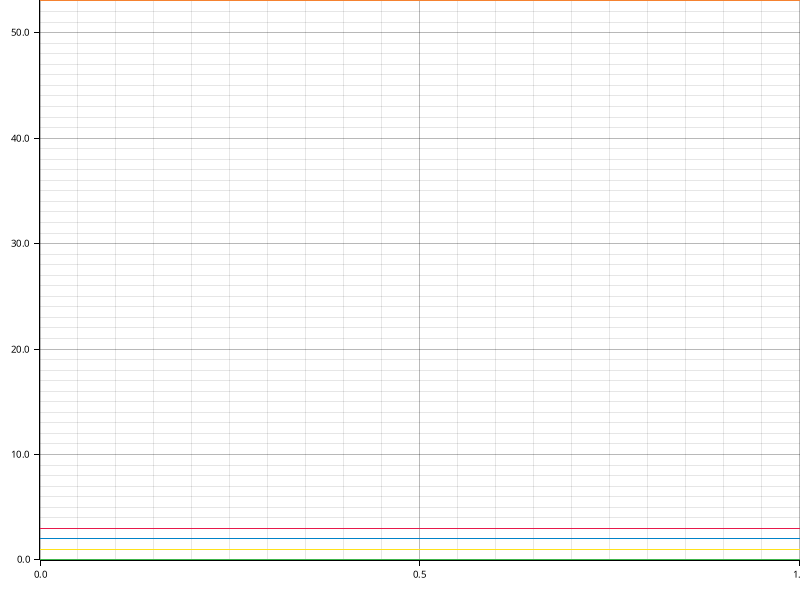
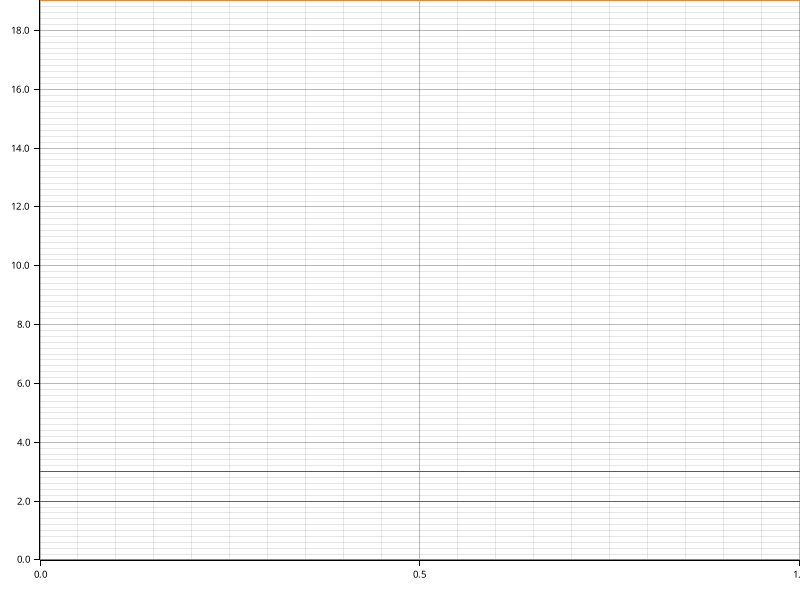
Tweaked same-as traits

diff --git a/web/web_common/diesel-queries/src/traits/compatible_type.rs b/web/web_common/diesel-queries/src/traits/compatible_type.rs
@@ -1,40 +1,59 @@
 //! Defines a trait for determing whether two types are compatible
 //! for a foreign key relationship in Diesel schemas.
 
-use diesel::dsl::Nullable;
+use crate::traits::TypedColumn;
 
 /// Defines a trait for determining whether two types are compatible
 /// for a foreign key relationship in Diesel.
-pub trait ForeignKeyCompatibleType<Other> {}
+pub trait ForeignKeyCompatibleSqlType<Other> {}
+
+impl<T> ForeignKeyCompatibleSqlType<T> for T {}
+impl<T> ForeignKeyCompatibleSqlType<diesel::sql_types::Nullable<T>> for T {}
+impl<T> ForeignKeyCompatibleSqlType<T> for diesel::sql_types::Nullable<T> {}
+
+/// Defines a trait for determining whether two types are compatible
+/// for a foreign key relationship in Diesel.
+pub trait ForeignKeyCompatibleType<Other>: Into<Other> {}
 
 impl<T> ForeignKeyCompatibleType<T> for T {}
-impl<T> ForeignKeyCompatibleType<Nullable<T>> for T {}
-impl<T> ForeignKeyCompatibleType<T> for Nullable<T> {}
+impl<T> ForeignKeyCompatibleType<Option<T>> for T {}
 
 /// Helper trait for a single compatible type.
-pub trait ForeignKeyCompatibleColumn<Other> {}
+pub trait ForeignKeyCompatibleColumn<Other: TypedColumn>: TypedColumn {}
 
 impl<C1, C2> ForeignKeyCompatibleColumn<C2> for C1
 where
-    C1: diesel::Column,
-    C2: diesel::Column,
-    C1::SqlType: ForeignKeyCompatibleType<C2::SqlType>,
+    C1: TypedColumn,
+    C2: TypedColumn,
+    C1::SqlType: ForeignKeyCompatibleSqlType<C2::SqlType>,
+    C1::Type: ForeignKeyCompatibleType<C2::Type>,
 {
 }
 
 /// Helper trait for tuples of compatible types.
 pub trait ForeignKeyCompatibleColumns<Other> {}
 
-impl<C1, C2> ForeignKeyCompatibleColumns<(C1,)> for (C2,) where C2: ForeignKeyCompatibleColumn<C1> {}
+impl<C2: TypedColumn, C1: TypedColumn> ForeignKeyCompatibleColumns<(C2,)> for (C1,) where
+    C1: ForeignKeyCompatibleColumn<C2>
+{
+}
 
-impl<C1, C2, C3, C4> ForeignKeyCompatibleColumns<(C1, C2)> for (C3, C4)
+impl<C1: TypedColumn, C2: TypedColumn, C3: TypedColumn, C4: TypedColumn>
+    ForeignKeyCompatibleColumns<(C1, C2)> for (C3, C4)
 where
     C3: ForeignKeyCompatibleColumn<C1>,
     C4: ForeignKeyCompatibleColumn<C2>,
 {
 }
 
-impl<C1, C2, C3, C4, C5, C6> ForeignKeyCompatibleColumns<(C1, C2, C3)> for (C4, C5, C6)
+impl<
+    C1: TypedColumn,
+    C2: TypedColumn,
+    C3: TypedColumn,
+    C4: TypedColumn,
+    C5: TypedColumn,
+    C6: TypedColumn,
+> ForeignKeyCompatibleColumns<(C1, C2, C3)> for (C4, C5, C6)
 where
     C4: ForeignKeyCompatibleColumn<C1>,
     C5: ForeignKeyCompatibleColumn<C2>,

diff --git a/web/web_common/diesel-queries/src/traits/set_column.rs b/web/web_common/diesel-queries/src/traits/set_column.rs
@@ -1,7 +1,8 @@
 //! Helper method for builders.
 
 use crate::traits::{
-    HorizontalSameAs, MaybeGetColumn, TableIsExtensionOf, VerticalSameAs, get_column::TypedColumn,
+    ForeignKeyCompatibleColumn, ForeignKeyCompatibleType, HorizontalSameAs, MaybeGetColumn,
+    TableIsExtensionOf, VerticalSameAs, get_column::TypedColumn,
 };
 
 /// Trait for setting a column from a Diesel model builder which cannot fail.
@@ -94,15 +95,20 @@ where
 
 /// Trait for setting a vertical same-as column from a Diesel model builder
 /// which cannot fail.
-pub trait SetVerticalColumn<
-    HostColumn: VerticalSameAs<AncestorColumn>,
-    AncestorColumn: TypedColumn<SqlType = HostColumn::SqlType, Type = HostColumn::Type>,
->: SetColumn<AncestorColumn> + MaybeGetColumn<HostColumn> where
+pub trait SetVerticalColumn<HostColumn: VerticalSameAs<AncestorColumn>, AncestorColumn: TypedColumn>:
+    SetColumn<AncestorColumn> + MaybeGetColumn<HostColumn>
+where
     HostColumn::Table: TableIsExtensionOf<AncestorColumn::Table>,
+    HostColumn: ForeignKeyCompatibleColumn<AncestorColumn>,
+    HostColumn::Type: ForeignKeyCompatibleType<AncestorColumn::Type>,
 {
     /// Sets the vertical same-as column.
     fn set_vertical(self) -> Self {
-        if let Some(value) = self.maybe_get_column().cloned() { self.set(value) } else { self }
+        if let Some(value) = self.maybe_get_column().cloned() {
+            self.set(value.into())
+        } else {
+            self
+        }
     }
 }
 
@@ -118,9 +124,11 @@ where
 /// Trait for setting a vertical same-as column from a Diesel model builder.
 pub trait TrySetVerticalColumn<
     HostColumn: VerticalSameAs<AncestorColumn>,
-    AncestorColumn: TypedColumn<SqlType = HostColumn::SqlType, Type = HostColumn::Type>,
+    AncestorColumn: TypedColumn,
 >: TrySetColumn<AncestorColumn> + MaybeGetColumn<HostColumn> where
     HostColumn::Table: TableIsExtensionOf<AncestorColumn::Table>,
+    HostColumn: ForeignKeyCompatibleColumn<AncestorColumn>,
+    HostColumn::Type: ForeignKeyCompatibleType<AncestorColumn::Type>,
 {
     /// Sets the vertical same-as column.
     ///
@@ -129,7 +137,7 @@ pub trait TrySetVerticalColumn<
     /// Returns an error if the column cannot be set.
     fn try_set_vertical(self) -> Result<Self, Self::Error> {
         if let Some(value) = self.maybe_get_column().cloned() {
-            self.try_set(value)
+            self.try_set(value.into())
         } else {
             Ok(self)
         }

diff --git a/web/web_common/diesel-queries/src/traits/same_as.rs b/web/web_common/diesel-queries/src/traits/same_as.rs
@@ -5,7 +5,10 @@ use diesel::Table;
 use crate::traits::{ForeignKey, ForeignKeyCompatibleColumn, TableIsExtensionOf, TypedColumn};
 
 /// Trait defining the existance of an horizontal same-as relationship.
-pub trait HorizontalSameAs<Referenced, Key>: TypedColumn {}
+pub trait HorizontalSameAs<Referenced: TypedColumn, Key>:
+    ForeignKeyCompatibleColumn<Referenced>
+{
+}
 
 impl<HostColumn, Referenced, Key> HorizontalSameAs<Referenced, Key> for HostColumn
 where
@@ -20,9 +23,9 @@ where
 }
 
 /// Trait defining the existance of a vertical same-as relationship.
-pub trait VerticalSameAs<Ancestral: TypedColumn>: TypedColumn
+pub trait VerticalSameAs<Ancestral: TypedColumn>:
+    ForeignKeyCompatibleColumn<Ancestral> + Sized
 where
     Self::Table: TableIsExtensionOf<Ancestral::Table>,
-    Ancestral: ForeignKeyCompatibleColumn<Self>,
 {
 }

diff --git a/web/web_common/synql/emi_codegen.md b/web/web_common/synql/emi_codegen.md
@@ -1,36 +1,36 @@
 # Time Report for EMI Workspace Generation Test
 
-The total time spent on all tasks was a minute.
-The slowest task was `Checking Generated Workspace` which took 53 seconds, 415 ms, 561 µs and 906 ns (85.18% of all time).
+The total time spent on all tasks was 29 seconds.
+The slowest task was `Checking Generated Workspace` which took 19 seconds, 307 ms, 101 µs and 840 ns (66.03% of all time).
 
 | name                         | time                                  | percentage | comment |
 |------------------------------|---------------------------------------|------------|---------|
-| Database Parsing             | 3 seconds, 679 ms, 710 µs and 818 ns  | 5.87%      |         |
-| Schema Validation            | 930 ms, 579 µs and 145 ns             | 1.48%      |         |
-| SQL Workspace Generation     | 1 second, 836 ms, 130 µs and 267 ns   | 2.93%      |         |
-| Formatting Workspace         | 2 seconds, 846 ms, 479 µs and 854 ns  | 4.54%      |         |
-| Checking Generated Workspace | 53 seconds, 415 ms, 561 µs and 906 ns | 85.18%     |         |
+| Database Parsing             | 3 seconds, 375 ms, 857 µs and 890 ns  | 11.55%     |         |
+| Schema Validation            | 959 ms, 385 µs and 503 ns             | 3.28%      |         |
+| SQL Workspace Generation     | 2 seconds, 840 ms, 631 µs and 796 ns  | 9.72%      |         |
+| Formatting Workspace         | 2 seconds, 755 ms, 423 µs and 66 ns   | 9.42%      |         |
+| Checking Generated Workspace | 19 seconds, 307 ms, 101 µs and 840 ns | 66.03%     |         |
 
 ## Time Report for SQL Workspace Generation
 
 The total time spent on all tasks was now.
-The slowest task was `workspace_write_to_disk` which took 625 ms, 70 µs and 410 ns (34.04% of all time).
+The slowest task was `workspace_write_to_disk` which took 1 second, 638 ms, 226 µs and 469 ns (57.67% of all time).
 
-| name                          | time                      | percentage | comment |
-|-------------------------------|---------------------------|------------|---------|
-| schema_macro                  | 25 ms, 602 µs and 21 ns   | 1.39%      |         |
-| model                         | 557 ms, 52 µs and 901 ns  | 30.34%     |         |
-| transitive_extension_trait    | 5 ms, 363 µs and 482 ns   | 0.29%      |         |
-| relations_trait               | 14 ms, 334 µs and 732 ns  | 0.78%      |         |
-| attributes                    | 17 ms, 822 µs and 186 ns  | 0.97%      |         |
-| value_settable_trait          | 5 ms, 705 µs and 417 ns   | 0.31%      |         |
-| insertable_key_settable_trait | 8 ms, 703 µs and 408 ns   | 0.47%      |         |
-| buildable_key_settable_trait  | 24 ms, 864 µs and 246 ns  | 1.35%      |         |
-| insertable                    | 30 ms, 988 µs and 821 ns  | 1.69%      |         |
-| buildable                     | 209 ms, 122 µs and 312 ns | 11.39%     |         |
-| extension_attributes          | 11 ms, 933 µs and 800 ns  | 0.65%      |         |
-| workspace_write_to_disk       | 625 ms, 70 µs and 410 ns  | 34.04%     |         |
-| workspace_toml                | 299 ms, 451 µs and 86 ns  | 16.31%     |         |
-| workspace_rustfmt             | 115 µs and 445 ns         | 0.01%      |         |
+| name                          | time                                | percentage | comment |
+|-------------------------------|-------------------------------------|------------|---------|
+| schema_macro                  | 25 ms, 622 µs and 625 ns            | 0.90%      |         |
+| model                         | 560 ms, 94 µs and 836 ns            | 19.72%     |         |
+| transitive_extension_trait    | 5 ms, 29 µs and 611 ns              | 0.18%      |         |
+| relations_trait               | 14 ms, 262 µs and 871 ns            | 0.50%      |         |
+| attributes                    | 17 ms, 859 µs and 41 ns             | 0.63%      |         |
+| value_settable_trait          | 5 ms, 740 µs and 499 ns             | 0.20%      |         |
+| insertable_key_settable_trait | 8 ms, 675 µs and 301 ns             | 0.31%      |         |
+| buildable_key_settable_trait  | 24 ms, 659 µs and 500 ns            | 0.87%      |         |
+| insertable                    | 30 ms, 862 µs and 502 ns            | 1.09%      |         |
+| buildable                     | 207 ms, 786 µs and 939 ns           | 7.31%      |         |
+| extension_attributes          | 11 ms, 928 µs and 641 ns            | 0.42%      |         |
+| workspace_write_to_disk       | 1 second, 638 ms, 226 µs and 469 ns | 57.67%     |         |
+| workspace_toml                | 289 ms, 763 µs and 691 ns           | 10.20%     |         |
+| workspace_rustfmt             | 119 µs and 270 ns                   | 0.00%      |         |
 
 ![Plot](emi_codegen.png)
